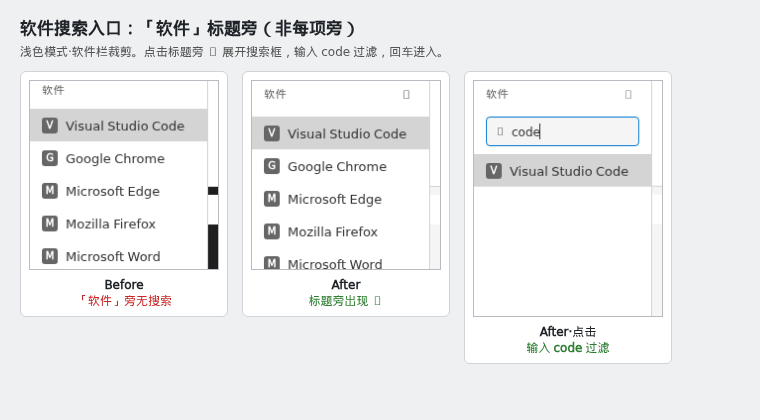
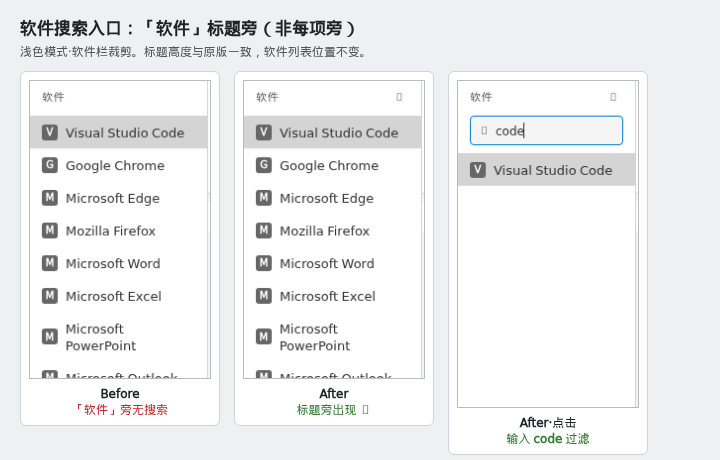
fix: 搜索按钮不再影响软件列表布局；重做正确的浅色对比证据
- 侧栏标题 .sidebar-header 固定为原高 38px，软件列表位置与基线一致
  （之前按钮把标题撑高 8px，整列软件整体下移）
- 移除不再需要的 .software-name 包裹，软件项渲染与原版一致
- 浅色模式下与基线逐像素仅差 36px（新增的 🔍 图标）：
  正文 rgb(51,51,51)、选中 rgb(212,212,212)、详情面板 rgb(245,245,245) 均不变
- 重做对比图：此前的对比图用加载后强制切主题，导致正文/选中残留深色配色，
  造成“字体变淡、选中变深”的误判；现已按真实方式(预置主题后加载)渲染

diff --git a/index.html b/index.html
@@ -104,7 +104,11 @@
         }
 
         .sidebar-header {
-            padding: 12px;
+            /* 保持与原版同高 38px（原为 12px 内边距 + 单行标题），
+               避免因新增搜索按钮使标题区变高、把软件列表整体下移 */
+            padding: 0 12px;
+            height: 38px;
+            box-sizing: border-box;
             font-size: 11px;
             text-transform: uppercase;
             color: var(--text-secondary);
@@ -116,6 +120,7 @@
 
         .sidebar-header .sidebar-title {
             flex: 1;
+            line-height: 20px;
         }
 
         /* 「软件」标题旁的搜索开关按钮 */
@@ -124,14 +129,14 @@
             display: flex;
             align-items: center;
             justify-content: center;
-            width: 22px;
-            height: 22px;
+            width: 20px;
+            height: 20px;
             padding: 0;
             background: transparent;
             border: 1px solid transparent;
             border-radius: 4px;
             color: var(--text-secondary);
-            font-size: 12px;
+            font-size: 11px;
             line-height: 1;
             cursor: pointer;
             transition: background 0.15s, color 0.15s, border-color 0.15s;
@@ -232,13 +237,6 @@
             font-weight: bold;
             color: #fff;
             background: var(--text-secondary);
-        }
-
-        .software-item .software-name {
-            flex: 1;
-            overflow: hidden;
-            text-overflow: ellipsis;
-            white-space: nowrap;
         }
 
         /* Content Area */
@@ -1524,8 +1522,7 @@
                     // 安全: name.charAt(0) 和 name 都走 escape
                     const safeName = Html.escape(name);
                     const safeInitial = Html.escape((name || '?').charAt(0));
-                    div.innerHTML = `<span class="icon">${safeInitial}</span>`
-                        + `<span class="software-name">${safeName}</span>`;
+                    div.innerHTML = `<span class="icon">${safeInitial}</span>${safeName}`;
                     div.addEventListener('click', () => selectSoftware(`custom_${key}`));
                     div.addEventListener('contextmenu', (e) => {
                         e.preventDefault();
